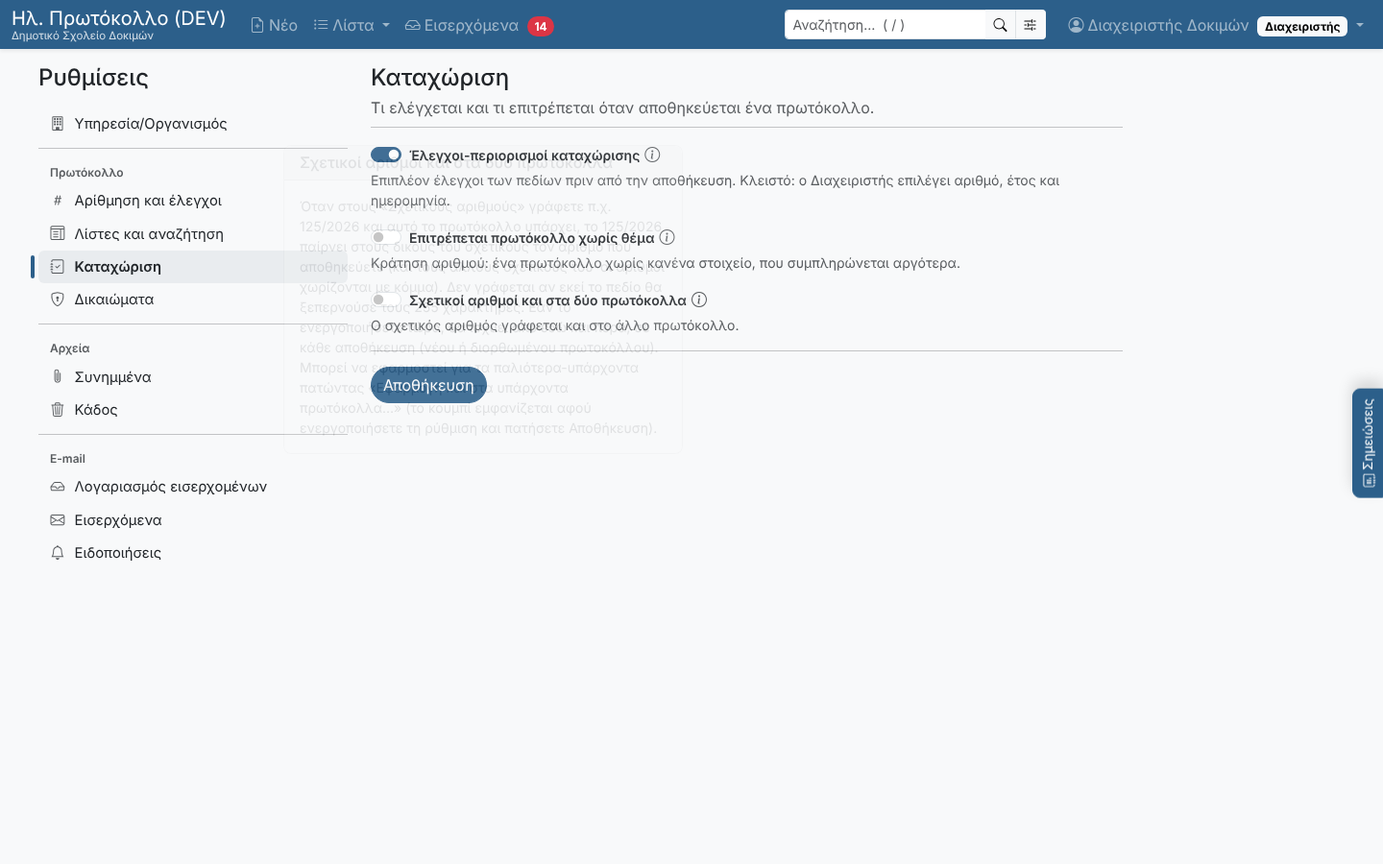
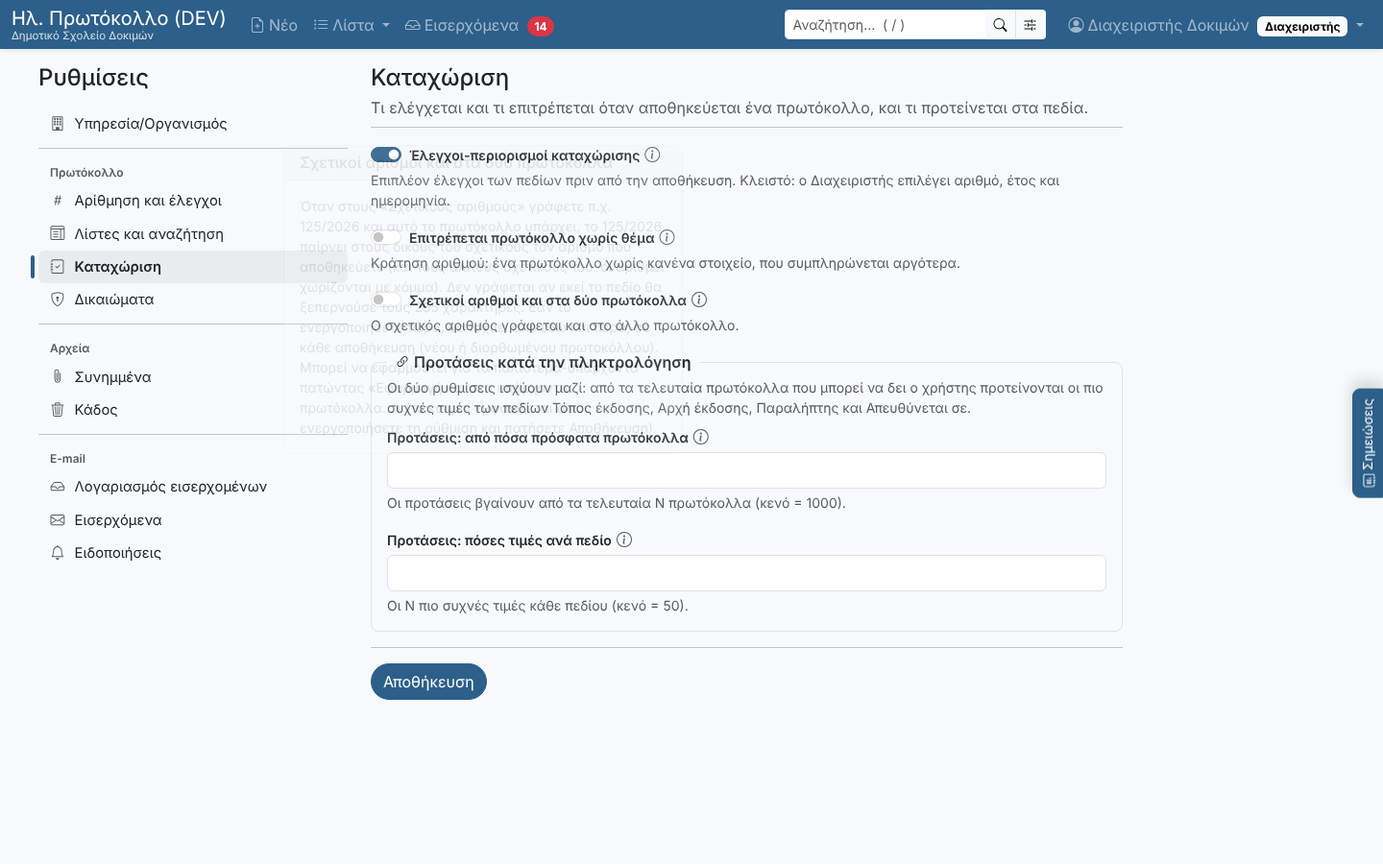
R6m: time zone in .env (APP_TIMEZONE); field suggestions on Ρυθμίσεις → Καταχώριση
- timeZone (never on the new page) -> APP_TIMEZONE / config app.timezone;
  its configs row annotated by the same migration
- rowsToSearchGiaSimplirosi / rowsToShowGiaSimplirosi in a «Προτάσεις κατά
  την πληκτρολόγηση» frame; «how many» means what it says (no floor of 50;
  empty = 50 keeps today's behaviour)

Claude-Session: https://claude.ai/code/session_01TwxLMHK5FFWoQpCfg8j1en

diff --git a/e2e/tests/settings.spec.js b/e2e/tests/settings.spec.js
@@ -195,6 +195,7 @@ test('settings follow the owner\'s plan (R6m)', async ({ page }) => {
 
   for (const [section, ids, shot] of [
     ['display', ['minutesRefreshInterval', 'showRowsInPage', 'maxRowsInFindPage'], 'r6m-display'],
+    ['registration', ['protocolValidate', 'allowEmptyProtocol', 'saveCycleSxetiko', 'rowsToSearchGiaSimplirosi', 'rowsToShowGiaSimplirosi'], 'r6m-registration'],
     ['rights', ['allowWriterUpdateProtocol', 'allowWriterUpdateProtocolTimeInMinutes', 'allowWriterChangeDate', 'limitProtocolAccessList', 'allowUserChangeKeepSelect'], 'r6m-rights'],
     ['files', ['putStamp', 'diavgeiaUrl', 'emailFileFirst', 'saveEmailAs'], 'r6m-files'],
     ['notifications', ['sendEmailOnDiekperaiosiChange', 'alwaysSendReceitForEmails'], 'r6m-notifications']]) {

diff --git a/app/Support/SettingsCatalog.php b/app/Support/SettingsCatalog.php
@@ -80,7 +80,12 @@ final class SettingsCatalog
                     'more' => 'Δεν αποτελεί όριο στα αποτελέσματα αναζήτησης αλλά επηρεάζει μόνο τη σελιδοποίηση αυτών. Ισχύει για τη '
                         .'Σύνθετη αναζήτηση αλλά και για τα αποτελέσματα στο πλαίσιο αναζήτησης.'],
             ]],
-            'registration' => ['title' => 'Καταχώριση', 'icon' => 'journal-check', 'settings' => [
+            'registration' => ['title' => 'Καταχώριση', 'icon' => 'journal-check',
+                // R6m (owner, 2026-11-27): the field suggestions' two values, on the page for the first time
+                'boxes' => ['suggestions' => ['title' => 'Προτάσεις κατά την πληκτρολόγηση',
+                    'help' => 'Οι δύο ρυθμίσεις ισχύουν μαζί: από τα τελευταία πρωτόκολλα που μπορεί να δει ο χρήστης προτείνονται οι πιο '
+                        .'συχνές τιμές των πεδίων Τόπος έκδοσης, Αρχή έκδοσης, Παραλήπτης και Απευθύνεται σε.']],
+                'settings' => [
                 'protocolValidate' => ['label' => 'Έλεγχοι-περιορισμοί καταχώρισης', 'kind' => 'bool',
                     'help' => 'Επιπλέον έλεγχοι των πεδίων πριν από την αποθήκευση. Κλειστό: ο Διαχειριστής επιλέγει αριθμό, έτος και ημερομηνία.',
                     'more' => 'Ανοιχτό: η συμπλήρωση του Θέματος απαιτείται. Τα στοιχεία του εισερχομένου (αριθμός, ημερομηνία, τόπος, αρχή '
@@ -101,6 +106,17 @@ final class SettingsCatalog
                         .'(νέου ή διορθωμένου πρωτοκόλλου). '
                         .'Μπορεί να εφαρμοστεί για τα παλιότερα-υπάρχοντα πατώντας «Εφαρμογή και στα υπάρχοντα πρωτόκολλα…» (το κουμπί '
                         .'εμφανίζεται αφού ενεργοποιήσετε τη ρύθμιση και πατήσετε Αποθήκευση).'],
+                'rowsToSearchGiaSimplirosi' => ['label' => 'Προτάσεις: από πόσα πρόσφατα πρωτόκολλα', 'kind' => 'int', 'box' => 'suggestions',
+                    'rules' => ['nullable', 'integer', 'min:1', 'max:50000'],
+                    'help' => 'Οι προτάσεις βγαίνουν από τα τελευταία Ν πρωτόκολλα (κενό = 1000).',
+                    'more' => 'Ισχύει στη φόρμα πρωτοκόλλου, στα Εισερχόμενα και στη Σύνθετη αναζήτηση. Κάθε χρήστης παίρνει προτάσεις μόνο από τα '
+                        .'πρωτόκολλα που μπορεί να δει («Περιορισμός λίστας»). Περισσότερα πρωτόκολλα δίνουν περισσότερες και παλαιότερες '
+                        .'προτάσεις, αλλά η σελίδα ανοίγει πιο αργά.'],
+                'rowsToShowGiaSimplirosi' => ['label' => 'Προτάσεις: πόσες τιμές ανά πεδίο', 'kind' => 'int', 'box' => 'suggestions',
+                    'rules' => ['nullable', 'integer', 'min:1', 'max:1000'],
+                    'help' => 'Οι Ν πιο συχνές τιμές κάθε πεδίου (κενό = 50).',
+                    'more' => 'Από τα πρωτόκολλα της προηγούμενης ρύθμισης, κάθε πεδίο (Τόπος έκδοσης, Αρχή έκδοσης, Παραλήπτης, Απευθύνεται σε) '
+                        .'προτείνει τις Ν τιμές που γράφτηκαν συχνότερα, με αλφαβητική σειρά, καθώς πληκτρολογείτε.'],
             ]],
             'rights' => ['title' => 'Δικαιώματα', 'icon' => 'shield-lock', 'settings' => [
                 'allowWriterUpdateProtocol' => ['label' => 'Δικαιώματα τροποποίησης πρωτοκόλλων', 'kind' => 'select',
@@ -226,8 +242,8 @@ final class SettingsCatalog
             ['yearInUse', 'firstProtocolNum', 'gapCheckMonths']],
         'display' => ['Πρωτόκολλο', 'Λίστες και αναζήτηση', 'layout-text-window', 'Πόσες γραμμές δείχνουν η λίστα και η αναζήτηση, και κάθε πότε ανανεώνεται η λίστα.',
             ['minutesRefreshInterval', 'showRowsInPage', 'maxRowsInFindPage']],
-        'registration' => ['Πρωτόκολλο', 'Καταχώριση', 'journal-check', 'Τι ελέγχεται και τι επιτρέπεται όταν αποθηκεύεται ένα πρωτόκολλο.',
-            ['protocolValidate', 'allowEmptyProtocol', 'saveCycleSxetiko']],
+        'registration' => ['Πρωτόκολλο', 'Καταχώριση', 'journal-check', 'Τι ελέγχεται και τι επιτρέπεται όταν αποθηκεύεται ένα πρωτόκολλο, και τι προτείνεται στα πεδία.',
+            ['protocolValidate', 'allowEmptyProtocol', 'saveCycleSxetiko', 'rowsToSearchGiaSimplirosi', 'rowsToShowGiaSimplirosi']],
         'rights' => ['Πρωτόκολλο', 'Δικαιώματα', 'shield-lock', 'Τι μπορούν να αλλάξουν οι Συγγραφείς και οι Αναθέτοντες, ποια πρωτόκολλα βλέπουν στη λίστα και ποιος ορίζει τον χρόνο διατήρησης.',
             ['allowWriterUpdateProtocol', 'allowWriterUpdateProtocolTimeInMinutes', 'allowWriterChangeDate', 'limitProtocolAccessList', 'allowUserChangeKeepSelect']],
         'files' => ['Αρχεία', 'Συνημμένα', 'paperclip', 'Η σφραγίδα, η Διαύγεια, και πώς φυλάσσεται και πού φαίνεται το αρχείο του e-mail.',

diff --git a/tests/Feature/SettingsPageTest.php b/tests/Feature/SettingsPageTest.php
@@ -218,11 +218,37 @@ class SettingsPageTest extends FeatureTestCase
         $this->assertFalse(Config::where('key', 'searchField1')->exists());
     }
 
+    /** R6m (owner, 2026-11-27): the field suggestions' two values are on the page (Καταχώριση) and mean what they say */
+    public function test_field_suggestions_follow_their_two_settings(): void
+    {
+        $this->assertSame('registration', SettingsCatalog::sectionOf('rowsToSearchGiaSimplirosi'));
+        $this->assertSame('registration', SettingsCatalog::sectionOf('rowsToShowGiaSimplirosi'));
+        $writer = $this->writer();
+        foreach (['Αθήνα', 'Αθήνα', 'Πάτρα', 'Βόλος'] as $i => $place) {
+            Protocol::factory()->create(['etos' => 2026, 'protocolnum' => 900 + $i, 'in_topos_ekdosis' => $place]);
+        }
+        $this->assertSame(['Αθήνα', 'Βόλος', 'Πάτρα'], \App\Support\Suggestions::for($writer)['in_topos_ekdosis']);
+        $this->setting('rowsToShowGiaSimplirosi', '1');   // was raised to 50 at least: now 1 means 1, the most used
+        $this->assertSame(['Αθήνα'], \App\Support\Suggestions::for($writer)['in_topos_ekdosis']);
+        $this->setting('rowsToShowGiaSimplirosi', '');
+        $this->setting('rowsToSearchGiaSimplirosi', '2');   // the two latest only
+        $this->assertSame(['Βόλος', 'Πάτρα'], \App\Support\Suggestions::for($writer)['in_topos_ekdosis']);
+
+        $page = Livewire::actingAs($this->admin())->test(SettingsPage::class)->call('show', 'registration');
+        $box = substr($page->html(), strpos($page->html(), 'id="box-suggestions"'));
+        $this->assertStringContainsString('id="s-rowsToSearchGiaSimplirosi"', $box);
+        $this->assertStringContainsString('id="s-rowsToShowGiaSimplirosi"', $box);
+        $page->set('values.rowsToShowGiaSimplirosi', '0')->call('save')->assertHasErrors('values.rowsToShowGiaSimplirosi');
+        $page->set('values.rowsToShowGiaSimplirosi', '30')->call('save')->assertHasNoErrors();
+        $this->assertSame('30', (string) Config::getConfigValueOf('rowsToShowGiaSimplirosi'));
+    }
+
     /** R6m (owner, 2026-11-27): the rows of the two settings moved to .env say so, with the old value kept */
     public function test_rows_of_settings_moved_to_env_say_where_they_went(): void
     {
         $migration = require base_path('database/migrations/2026_11_27_000002_settings_moved_to_env.php');
         DB::table('configs')->where('key', 'mysqldumpPath')->delete();
+        Config::setConfigValueOf('timeZone', 'Europe/Athens');
         Config::setConfigValueOf('maxRowsInXlsExport', '700');
         $migration->up();
         $migration->up();   // twice: nothing more happens
@@ -231,8 +257,13 @@ class SettingsPageTest extends FeatureTestCase
         $this->assertSame('Δεν χρησιμοποιείται πια: ορίζεται στο .env ως PRINT_MAX_ROWS (δείτε το .env.example). Παλιά τιμή: 700',
             (string) Config::getConfigValueOf('maxRowsInXlsExport'));
         $this->assertSame(5000, \App\Services\Printing\PrintRange::limit(), 'the row is not read');
+        $this->assertStringStartsWith('Δεν χρησιμοποιείται πια: ορίζεται στο .env ως APP_TIMEZONE', (string) Config::getConfigValueOf('timeZone'));
+        $this->assertSame('Europe/Athens', \App\Services\Mail\EmailRegistration::zone()->getName(), 'the time zone is APP_TIMEZONE');
+        config(['app.timezone' => 'Europe/London']);
+        $this->assertSame('Europe/London', \App\Services\Mail\EmailRegistration::zone()->getName());
         $this->assertStringContainsString("MYSQLDUMP_PATH=\n", file_get_contents(base_path('.env.example')));
         $this->assertStringContainsString("PRINT_MAX_ROWS=5000\n", file_get_contents(base_path('.env.example')));
+        $this->assertStringContainsString("APP_TIMEZONE=Europe/Athens\n", file_get_contents(base_path('.env.example')));
 
         $migration->down();
         $this->assertSame('700', (string) Config::getConfigValueOf('maxRowsInXlsExport'));

diff --git a/app/Support/Suggestions.php b/app/Support/Suggestions.php
@@ -16,14 +16,20 @@ final class Suggestions
 {
     public const FIELDS = ['in_topos_ekdosis', 'in_arxi_ekdosis', 'in_paraliptis', 'out_to'];
 
+    /** R6m: how many of the latest protocols the suggestions come from, and how many values each field offers (when empty) */
+    public const DEFAULT_SEARCHED = 1000;
+
+    public const DEFAULT_SHOWN = 50;
+
     /** R1f: at most this many keywords are offered (the most used). */
     public const KEYWORDS_MAX = 5000;
 
     /** @return array<string, list<string>> field => values */
     public static function for(User $user): array
     {
-        $rows = (int) (Config::getConfigValueOf('rowsToSearchGiaSimplirosi') ?: 1000);
-        $show = max(50, (int) (Config::getConfigValueOf('rowsToShowGiaSimplirosi') ?: 10));
+        // R6m (owner, 2026-11-27): both on Ρυθμίσεις → Καταχώριση; «shown» means what it says (it was raised to 50 at least)
+        $rows = max(1, (int) (Config::getConfigValueOf('rowsToSearchGiaSimplirosi') ?: self::DEFAULT_SEARCHED));
+        $show = max(1, (int) (Config::getConfigValueOf('rowsToShowGiaSimplirosi') ?: self::DEFAULT_SHOWN));
         $query = Protocol::query()->latest('id')->take($rows);
         if (ProtocolPolicy::isLimited($user)) {
             $query->ownOrAssigned((int) $user->id);

diff --git a/tests/Feature/InboxLoadingTest.php b/tests/Feature/InboxLoadingTest.php
@@ -72,7 +72,7 @@ class InboxLoadingTest extends FeatureTestCase
      */
     public function test_the_last_checks_emails_are_shown_at_once_while_it_connects(): void
     {
-        $this->setting('timeZone', 'Europe/Athens');
+        config(['app.timezone' => 'Europe/Athens']);   // R6m: APP_TIMEZONE
         \Carbon\Carbon::setTestNow(\Carbon\Carbon::parse('2026-11-23 06:05:00', 'UTC'));
         Livewire::actingAs($this->admin())->test(EmailInbox::class)->assertSee('inbox-message', false);   // a check, by someone
 
@@ -203,7 +203,7 @@ class InboxLoadingTest extends FeatureTestCase
     /** owner, 2026-11-23: «Τελευταία ανανέωση: ΩΡΑ» next to «Ανανέωση»; a failed refresh keeps the last good time */
     public function test_the_last_refresh_time_is_shown_next_to_the_button(): void
     {
-        $this->setting('timeZone', 'Europe/Athens');
+        config(['app.timezone' => 'Europe/Athens']);   // R6m: APP_TIMEZONE
         \Carbon\Carbon::setTestNow(\Carbon\Carbon::parse('2026-11-23 06:42:00', 'UTC'));
         $page = Livewire::actingAs($this->writer())->test(EmailInbox::class)
             ->assertSeeHtml('id="inbox-checked-at"')->assertSee('Τελευταία ανανέωση: 08:42');

diff --git a/database/migrations/2026_11_27_000002_settings_moved_to_env.php b/database/migrations/2026_11_27_000002_settings_moved_to_env.php
@@ -4,14 +4,14 @@ use Illuminate\Database\Migrations\Migration;
 use Illuminate\Support\Facades\DB;
 
 /**
- * R6m (owner, 2026-11-27): two settings left Ρυθμίσεις for the .env file. Their configs rows stay, but say so, so that
+ * R6m (owner, 2026-11-27): two settings left Ρυθμίσεις for the .env file, and the hidden timeZone went there too. Their configs rows stay, but say so, so that
  * an administrator looking at the table knows where the value lives now (the template: .env.example). The old value is
  * kept at the end of the note (e.g. to copy a print limit into PRINT_MAX_ROWS); nothing reads these rows any more.
  */
 return new class extends Migration
 {
     /** configs key => the .env variable that replaced it */
-    public const MOVED = ['mysqldumpPath' => 'MYSQLDUMP_PATH', 'maxRowsInXlsExport' => 'PRINT_MAX_ROWS'];
+    public const MOVED = ['mysqldumpPath' => 'MYSQLDUMP_PATH', 'maxRowsInXlsExport' => 'PRINT_MAX_ROWS', 'timeZone' => 'APP_TIMEZONE'];
 
     public const NOTE = 'Δεν χρησιμοποιείται πια: ορίζεται στο .env ως %s (δείτε το .env.example).';
 

diff --git a/app/Services/Mail/EmailRegistration.php b/app/Services/Mail/EmailRegistration.php
@@ -113,13 +113,13 @@ final class EmailRegistration
         return $row + ['stamp' => false, 'dir' => 'arxeio/emails'];
     }
 
-    /** The time zone of the settings (timeZone), for the dates shown and filled in. */
+    /** The application's time zone (APP_TIMEZONE; R6m: was the configs key timeZone), for the dates shown and filled in. */
     public static function zone(): \DateTimeZone
     {
         try {
-            return new \DateTimeZone((string) (Config::getConfigValueOf('timeZone') ?: config('app.timezone')));
-        } catch (\Throwable) {
             return new \DateTimeZone((string) config('app.timezone'));
+        } catch (\Throwable) {
+            return new \DateTimeZone('Europe/Athens');
         }
     }
 

diff --git a/resources/views/viewEmail.blade.php b/resources/views/viewEmail.blade.php
@@ -33,7 +33,7 @@
                 </div>
                 <div class="form-control-static col-md-1 col-sm-1 "><strong>Ημνία:</strong></div>
                 <div class="form-control-static col-md-2 col-sm-2 ">
-                    {{ \Carbon\Carbon::parse($mailMessage->getHeader(HeaderConsts::DATE)->getDateTime())->timezone(App\Models\Config::getConfigValueOf('timeZone'))->format('d/m/Y H:i:s') }}
+                    {{ \Carbon\Carbon::parse($mailMessage->getHeader(HeaderConsts::DATE)->getDateTime())->timezone(\App\Services\Mail\EmailRegistration::zone())->format('d/m/Y H:i:s') }}
                 </div>
             </div>
             <div class="row bg-warning ">

diff --git a/database/seeders/DatabaseSeeder.php b/database/seeders/DatabaseSeeder.php
@@ -224,13 +224,6 @@ class DatabaseSeeder extends Seeder
         ]);
 
         DB::table('configs')->insert([
-            'key' => 'timeZone',
-            'value' => 'Europe/Athens',
-            'created_at' => Carbon::now()->format('Y-m-d H:i:s'),
-            'updated_at' => Carbon::now()->format('Y-m-d H:i:s'),
-        ]);
-
-        DB::table('configs')->insert([
             'key' => 'limitProtocolAccessList',
             'value' => 0,
             'created_at' => Carbon::now()->format('Y-m-d H:i:s'),

diff --git a/config/app.php b/config/app.php
@@ -67,7 +67,8 @@ return [
     |
     */
 
-    'timezone' => 'Europe/Athens',
+    // R6m (owner, 2026-11-27): APP_TIMEZONE in .env (was also the configs key timeZone, read only by the inbox)
+    'timezone' => env('APP_TIMEZONE', 'Europe/Athens'),
 
     // R6m (owner, 2026-11-27): most protocols in one printout or Excel file (was the setting «Μέγιστες γραμμές εκτύπωσης και Excel»)
     'print_max_rows' => (int) env('PRINT_MAX_ROWS', 5000),

diff --git a/docs/SETTINGS.md b/docs/SETTINGS.md
@@ -127,6 +127,21 @@ and the first number of the last *N* months, and runs to the year's last number.
   numbers separated by commas, spaces or `;`), as many as fit, keeps their «last change» time, sends no e-mail.
   Administrators only. Details: [RELATED-NUMBERS.md](RELATED-NUMBERS.md).
 
+### ▢ Προτάσεις κατά την πληκτρολόγηση (frame of the next two; R6m, on the page since 2026-11-27)
+While typing in *Τόπος έκδοσης*, *Αρχή έκδοσης*, *Παραλήπτης* and *Απευθύνεται σε* (protocol form, Inbox, *Σύνθετη
+αναζήτηση*), each field offers the values written most often in the latest protocols the user may see (with
+*Περιορισμός λίστας* on, only their own and assigned ones), in alphabetical order. The list is made when the page opens.
+
+### Προτάσεις: από πόσα πρόσφατα πρωτόκολλα — `rowsToSearchGiaSimplirosi`
+- **Values:** empty or 1–50000; empty = 1000.
+- **Does:** the suggestions come from the latest *N* protocols (by entry). More gives more (and older) values but a
+  slower page.
+
+### Προτάσεις: πόσες τιμές ανά πεδίο — `rowsToShowGiaSimplirosi`
+- **Values:** empty or 1–1000; empty = 50.
+- **Does:** each field offers its *N* most used values. (Before R6m the code raised any value below 50 to 50, so the
+  old stored 10 showed 50: hence the default 50.)
+
 ## Πρωτόκολλο → Δικαιώματα
 
 ### Δικαιώματα τροποποίησης πρωτοκόλλων — `allowWriterUpdateProtocol`
@@ -271,15 +286,14 @@ and the first number of the last *N* months, and runs to the year's last number.
 |---|---|---|---|
 | `MYSQLDUMP_PATH` | «Διαδρομή του mysqldump» (`mysqldumpPath`) | empty = `mysqldump` / `mariadb-dump` found on the PATH (the Docker image has it) | the program *Διαχείριση → Backup* runs; only those two programs are ever run |
 | `PRINT_MAX_ROWS` | «Μέγιστες γραμμές εκτύπωσης και Excel» (`maxRowsInXlsExport`) | 5000 | most protocols in one printout or Excel file; the printout says when more were left out |
+| `APP_TIMEZONE` | the hidden key `timeZone` (never on the new page) | Europe/Athens | the application's time zone: every date it shows and fills in, also the Inbox's and the e-mail's HTML copy |
 
-Their `configs` rows now read «Δεν χρησιμοποιείται πια: ορίζεται στο .env ως … (δείτε το .env.example).», with the
-old value at the end (migration `2026_11_27_000002`). Template: `.env.example`.
+Their `configs` rows (and `timeZone`'s) now read «Δεν χρησιμοποιείται πια: ορίζεται στο .env ως … (δείτε το
+.env.example).», with the old value at the end (migration `2026_11_27_000002`). Template: `.env.example`.
 
 ### `configs` keys still read, not on the page
 | Key | Read by | Effect | Status |
 |---|---|---|---|
-| `timeZone` | `EmailRegistration::zone()`, `viewEmail.blade.php` | time zone of Inbox dates (empty → the application's, Europe/Athens) and of the e-mail's HTML copy | **open question to the owner** |
-| `rowsToSearchGiaSimplirosi`, `rowsToShowGiaSimplirosi` | `App\Support\Suggestions` | how many protocols field suggestions look through (1000) and show (10; values under 50 have no effect) | **open question to the owner** |
 | `protocolArrowStep` | `ProtocolController` `/goto/…/bb|ff` | step of the «jump N» addresses; no button uses them | hidden by the owner's decision (R6d) |
 | `wideListProtocol` | old layout (login pages only) | full-width old layout | kept until the old layout goes (Z01) |
 | `stampTemplate` | `StampTemplate` | the stamp's design | edited on the *Σφραγίδα* page, not here |
@@ -287,7 +301,7 @@ old value at the end (migration `2026_11_27_000002`). Template: `.env.example`.
 
 ### Dead keys (nothing reads them)
 `safeNewProtocolNum`, `updatesAutoCheck` (hidden, R6d), `needsUpdate`, `alwaysShowFakelosInViewEmails` (R5s: every
-e-mail needs a folder), `mysqldumpPath`, `maxRowsInXlsExport` (R6m, above). Removed rows: `searchField1–3`,
+e-mail needs a folder), `mysqldumpPath`, `maxRowsInXlsExport`, `timeZone` (R6m, above). Removed rows: `searchField1–3`,
 `showUserInfo`, `allowListValuesMatchingInput` (R6c), `gapCheckFromNumber` (moved into `firstProtocolNum`).
 
 ## Changing a setting (for developers and AI assistants)

diff --git a/docs/plan/HANDOFF.md b/docs/plan/HANDOFF.md
@@ -10,7 +10,7 @@ Read this first when (re)starting work. Update it at the end of every task.
   Wikimedia SVG; never commit anything from `local-data/official stamp.*`); loaded by the owner with `stamp:import`.
 - **R2u (owner, 2026-11-27):** protocol-list: the file line is badge link (tabindex -1, aria-hidden), `<x-preview-button>`, `a.attachment-link` (the name), `.attachment-size` after it; `ProtocolList::FILTER_HELP` (filter tooltips); `.list-head` background `--bs-tertiary-bg` (the body is `bg-body-tertiary`).
 - **R1q (owner, 2026-11-27):** protocol-form: `.form-head` grid (title, `.form-head-nav` ◀ ▶, last change); `[data-form-actions]` first in `.number-head` (grid cell 3 with the date: copy, receipt, delete); `data-copy-link` / copy-link.js removed; `#f-etos` in the TAB order, `tabindex=-1` on the layout buttons, `.section-toggle` and the folder / keyword `role=listbox` lists (also inbox, search: a scrolling list is focusable and swallowed TAB); app.js focuses the number or the date on load; `.upload-row` tinted + `.upload-new` «ΝΕΟ».
-- **R6m (owner, 2026-11-27):** `SettingsCatalog` = the owner's plan from the «Σχεδιαστής ρυθμίσεων» artifact (sections office · numbering · display · registration · rights · files · trash · mailbox · inbox · notifications; printing, emailRegistration, backup gone); texts word for word except spelling fixes (docs/reports/R6m.md). `mysqldumpPath` → `MYSQLDUMP_PATH` (config database.mysqldump_path), `maxRowsInXlsExport` → `PRINT_MAX_ROWS` (config app.print_max_rows, 5000); stored rows annotated by migration 2026_11_27_000002; the ⓘ may be shorter than the line. Second round: `InboxAccess` lets administrators in whatever `allowedEmailUsers` says; `EmailInbox::registerChecked` forces the receipt while `alwaysSendReceitForEmails` is on; texts corrected to the code. **Feature guide: docs/SETTINGS.md** (every setting, verified against the code; base for Z04). Open: timeZone, rowsTo*GiaSimplirosi not on the page (owner).
+- **R6m (owner, 2026-11-27):** `SettingsCatalog` = the owner's plan from the «Σχεδιαστής ρυθμίσεων» artifact (sections office · numbering · display · registration · rights · files · trash · mailbox · inbox · notifications; printing, emailRegistration, backup gone); texts word for word except spelling fixes (docs/reports/R6m.md). `mysqldumpPath` → `MYSQLDUMP_PATH` (config database.mysqldump_path), `maxRowsInXlsExport` → `PRINT_MAX_ROWS` (config app.print_max_rows, 5000); stored rows annotated by migration 2026_11_27_000002; the ⓘ may be shorter than the line. Second round: `InboxAccess` lets administrators in whatever `allowedEmailUsers` says; `EmailInbox::registerChecked` forces the receipt while `alwaysSendReceitForEmails` is on; texts corrected to the code. **Feature guide: docs/SETTINGS.md** (every setting, verified against the code; base for Z04). Third round: `timeZone` → APP_TIMEZONE (config app.timezone); rowsToSearchGiaSimplirosi / rowsToShowGiaSimplirosi on Καταχώριση (box `suggestions`; Suggestions::DEFAULT_SEARCHED 1000 / DEFAULT_SHOWN 50, no floor of 50 any more).
 - **R5y (owner, 2026-11-27):** email-inbox: no spinner in the register / receipt / «Ναι, καταχώριση» buttons; envelope classes `is-saved` / `is-read` (CSS variables `--inbox-mark`, `--inbox-tint`: Bootstrap theme colours); `EmailInbox` dispatches `inbox-done` after register / markRead, inbox.js `followDone()` scrolls the envelope to the top.
 - **R4q (owner, 2026-11-27):** `Preview::CONVERTED` + `eml => mail`, `Preview::mail()` (MailParser / MailContent: headers table, `<style>` + body kept, script / iframe / object / meta / base / link removed; the page's CSP loads nothing remote; up to MAX_MAIL_BYTES 40 MB); protocol-list: `<x-preview-button>` per file (group `list-<id>`), the stamp's corner read once (`stampCorner` prop, `StampedCopy::place($a, $corner)`); `.col-files` 17rem (narrow 9.5rem).
 - **R2t (owner, 2026-11-27):** protocol-list: `#list-head` wraps title, gaps notice, filters and top pager; CSS `.list-head` sticky (≥ 768 px wide and ≥ 600 px high), `--list-head-height` (app.js `measureListHead`, ResizeObserver, Livewire morph of `#list-head`) moves the table's sticky `th` under it; `.is-stuck` adds the shadow.
